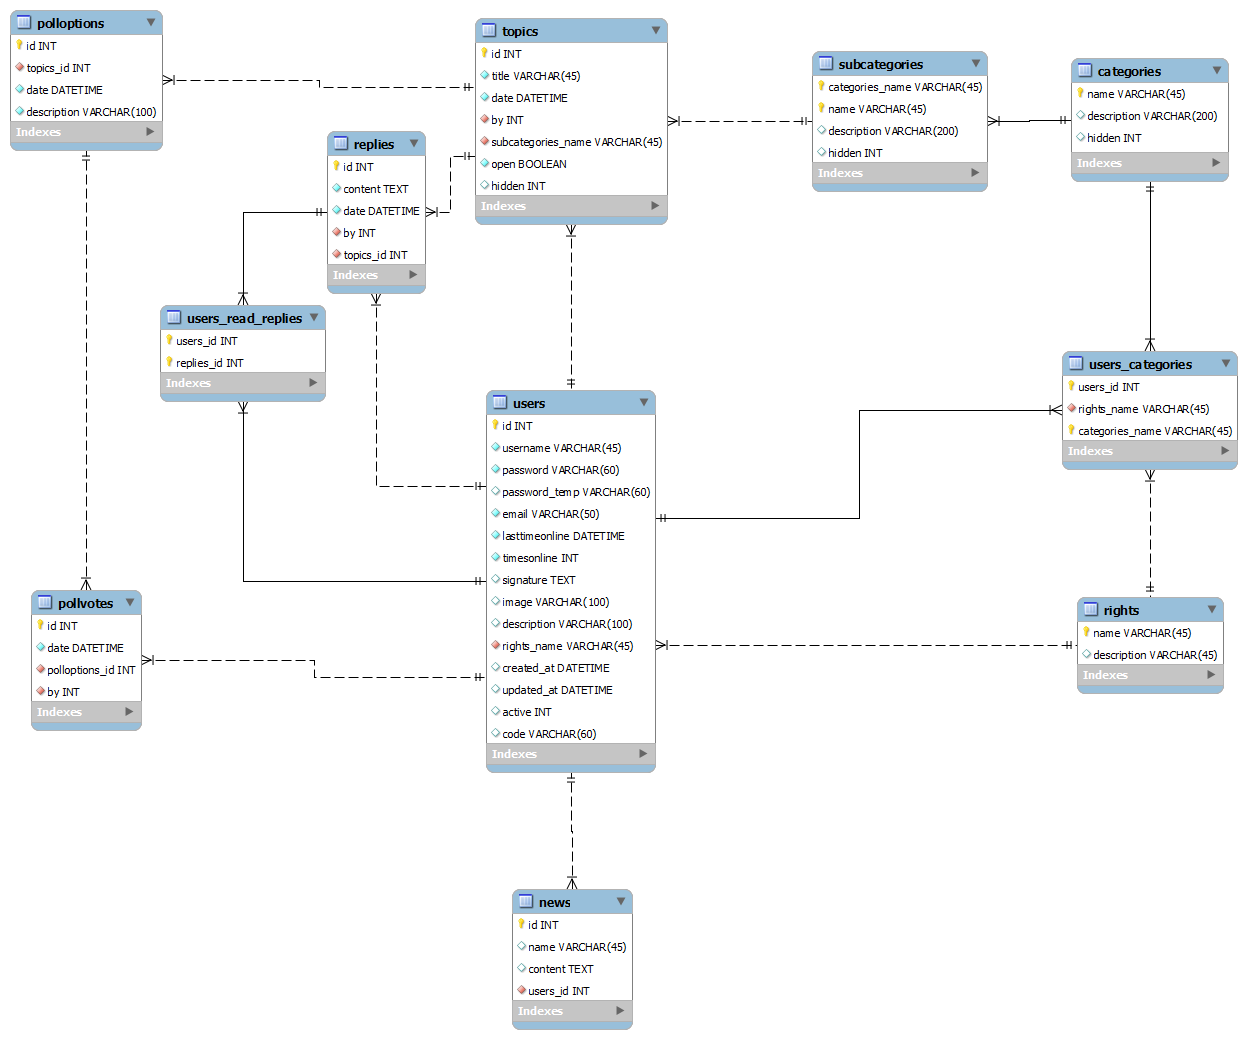
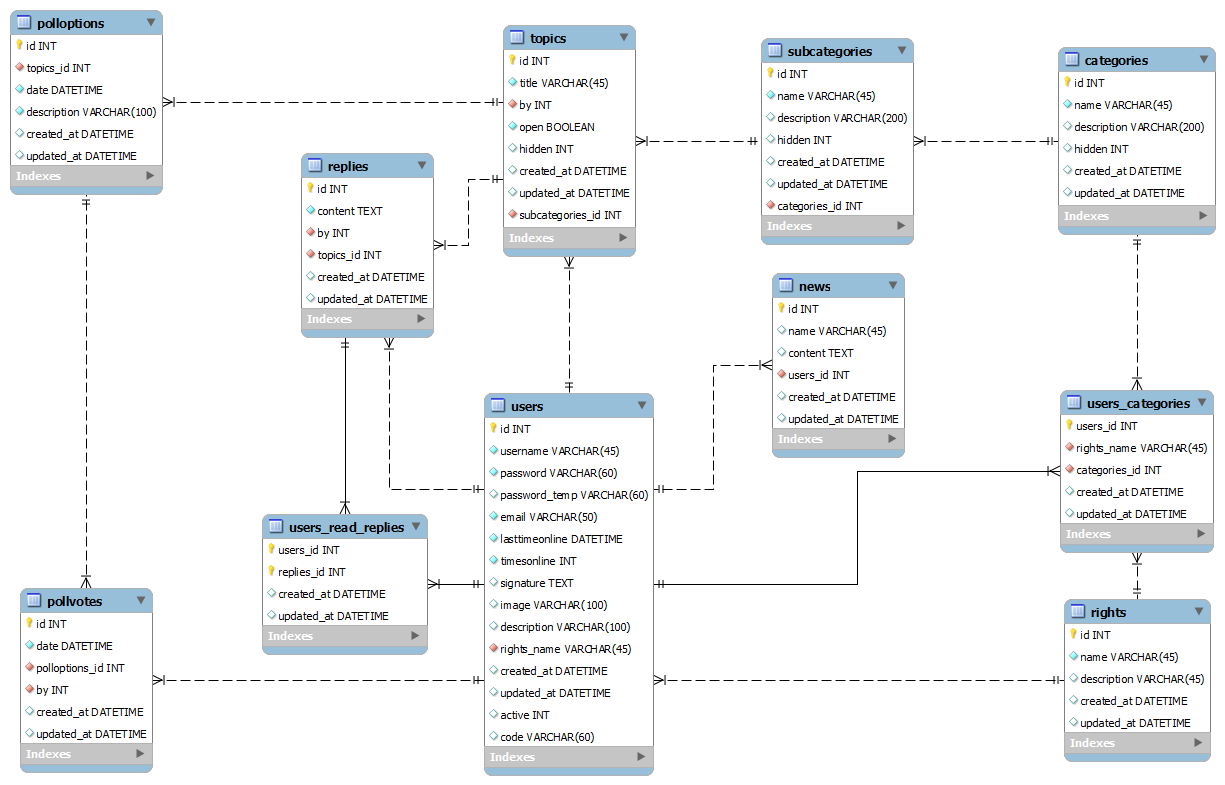
DB

diff --git a/app/models/Subcategory.php b/app/models/Subcategory.php
@@ -1,8 +1,6 @@
 <?php
 
 	class Subcategory extends Eloquent {
-
-		public $timestamps = false;
 	
 		protected $table = 'subcategories';
 		
@@ -33,7 +31,7 @@
 			foreach ($topics as $topic) {
 				$replies = Reply::where('topics_id', '=', $topic->id)->get();
 				foreach ($replies as $reply) {
-					$curReply = $reply->date;
+					$curReply = $reply->created_at;
 					if ($curReply > $lastReply) {
 						$lastReply = $curReply;
 					}

diff --git a/app/models/Topic.php b/app/models/Topic.php
@@ -1,8 +1,6 @@
 <?php
 
 	class Topic extends Eloquent {
-
-		public $timestamps = false;
 	
 		protected $table = 'topics';
 		
@@ -19,7 +17,7 @@
 			$lastReply = 0;
 			$replies = Reply::where('topics_id', '=', $this->id)->get();
 			foreach ($replies as $reply) {
-				$curReply = $reply->date;
+				$curReply = $reply->created_at;
 				if ($curReply > $lastReply) {
 					$lastReply = $curReply;
 				}

diff --git a/app/models/User_Subcategory.php b/app/models/User_Subcategory.php
@@ -1,8 +1,6 @@
 <?php
 
 	class User_Subcategory extends Eloquent {
-
-		public $timestamps = false;
 	
 		protected $table = 'users_subcategories';
 		

diff --git a/app/models/User_Read_Reply.php b/app/models/User_Read_Reply.php
@@ -1,8 +1,6 @@
 <?php
 
 	class User_Read_Reply extends Eloquent {
-
-		public $timestamps = false;
 	
 		protected $table = 'user_read_replies';
 		

diff --git a/app/models/Polloption.php b/app/models/Polloption.php
@@ -1,8 +1,6 @@
 <?php
 
 	class Polloption extends Eloquent {
-
-		public $timestamps = false;
 	
 		protected $table = 'polloptions';
 		

diff --git a/app/models/Category.php b/app/models/Category.php
@@ -1,8 +1,6 @@
 <?php
 
 	class Category extends Eloquent {
-
-		public $timestamps = false;
 	
 		protected $table = 'categories';
 		

diff --git a/app/models/Pollvote.php b/app/models/Pollvote.php
@@ -1,8 +1,6 @@
 <?php
 
 	class Pollvote extends Eloquent {
-
-		public $timestamps = false;
 	
 		protected $table = 'pollvotes';
 		

diff --git a/app/models/Reply.php b/app/models/Reply.php
@@ -1,8 +1,6 @@
 <?php
 
 	class Reply extends Eloquent {
-
-		public $timestamps = false;
 	
 		protected $table = 'replies';
 		

diff --git a/app/models/Right.php b/app/models/Right.php
@@ -1,8 +1,6 @@
 <?php
 
 	class Right extends Eloquent {
-
-		public $timestamps = false;
 	
 		protected $table = 'rights';
 		
